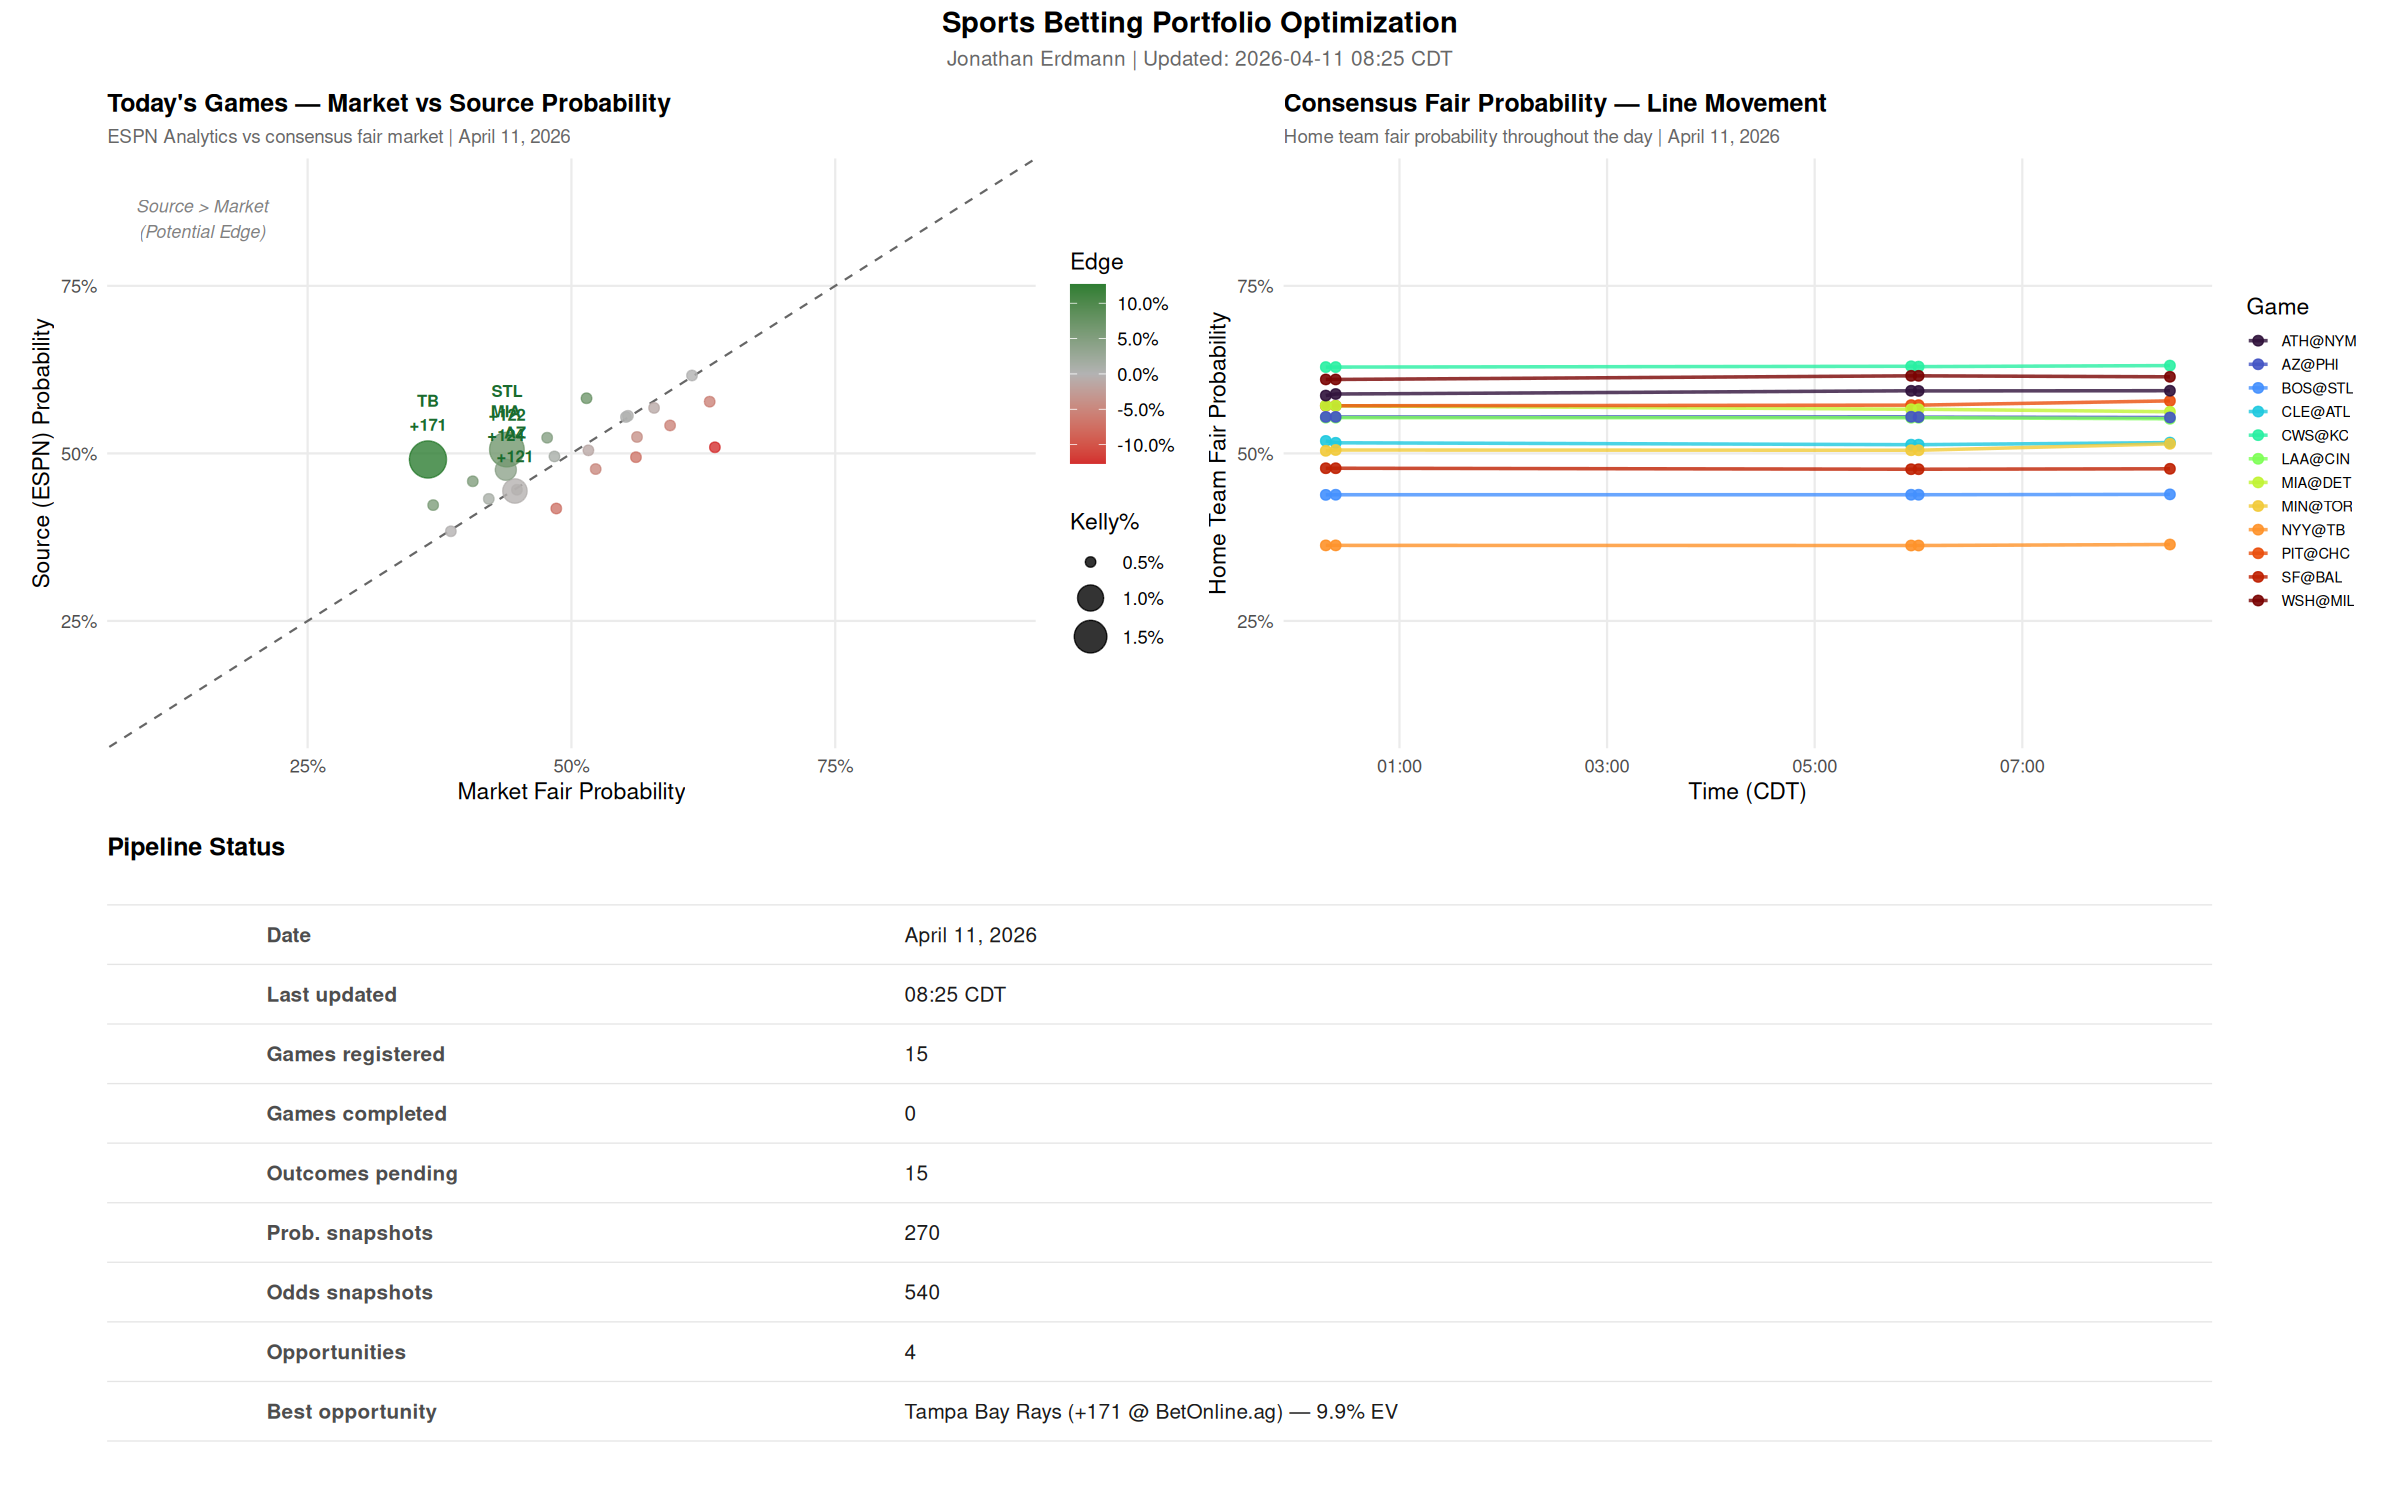
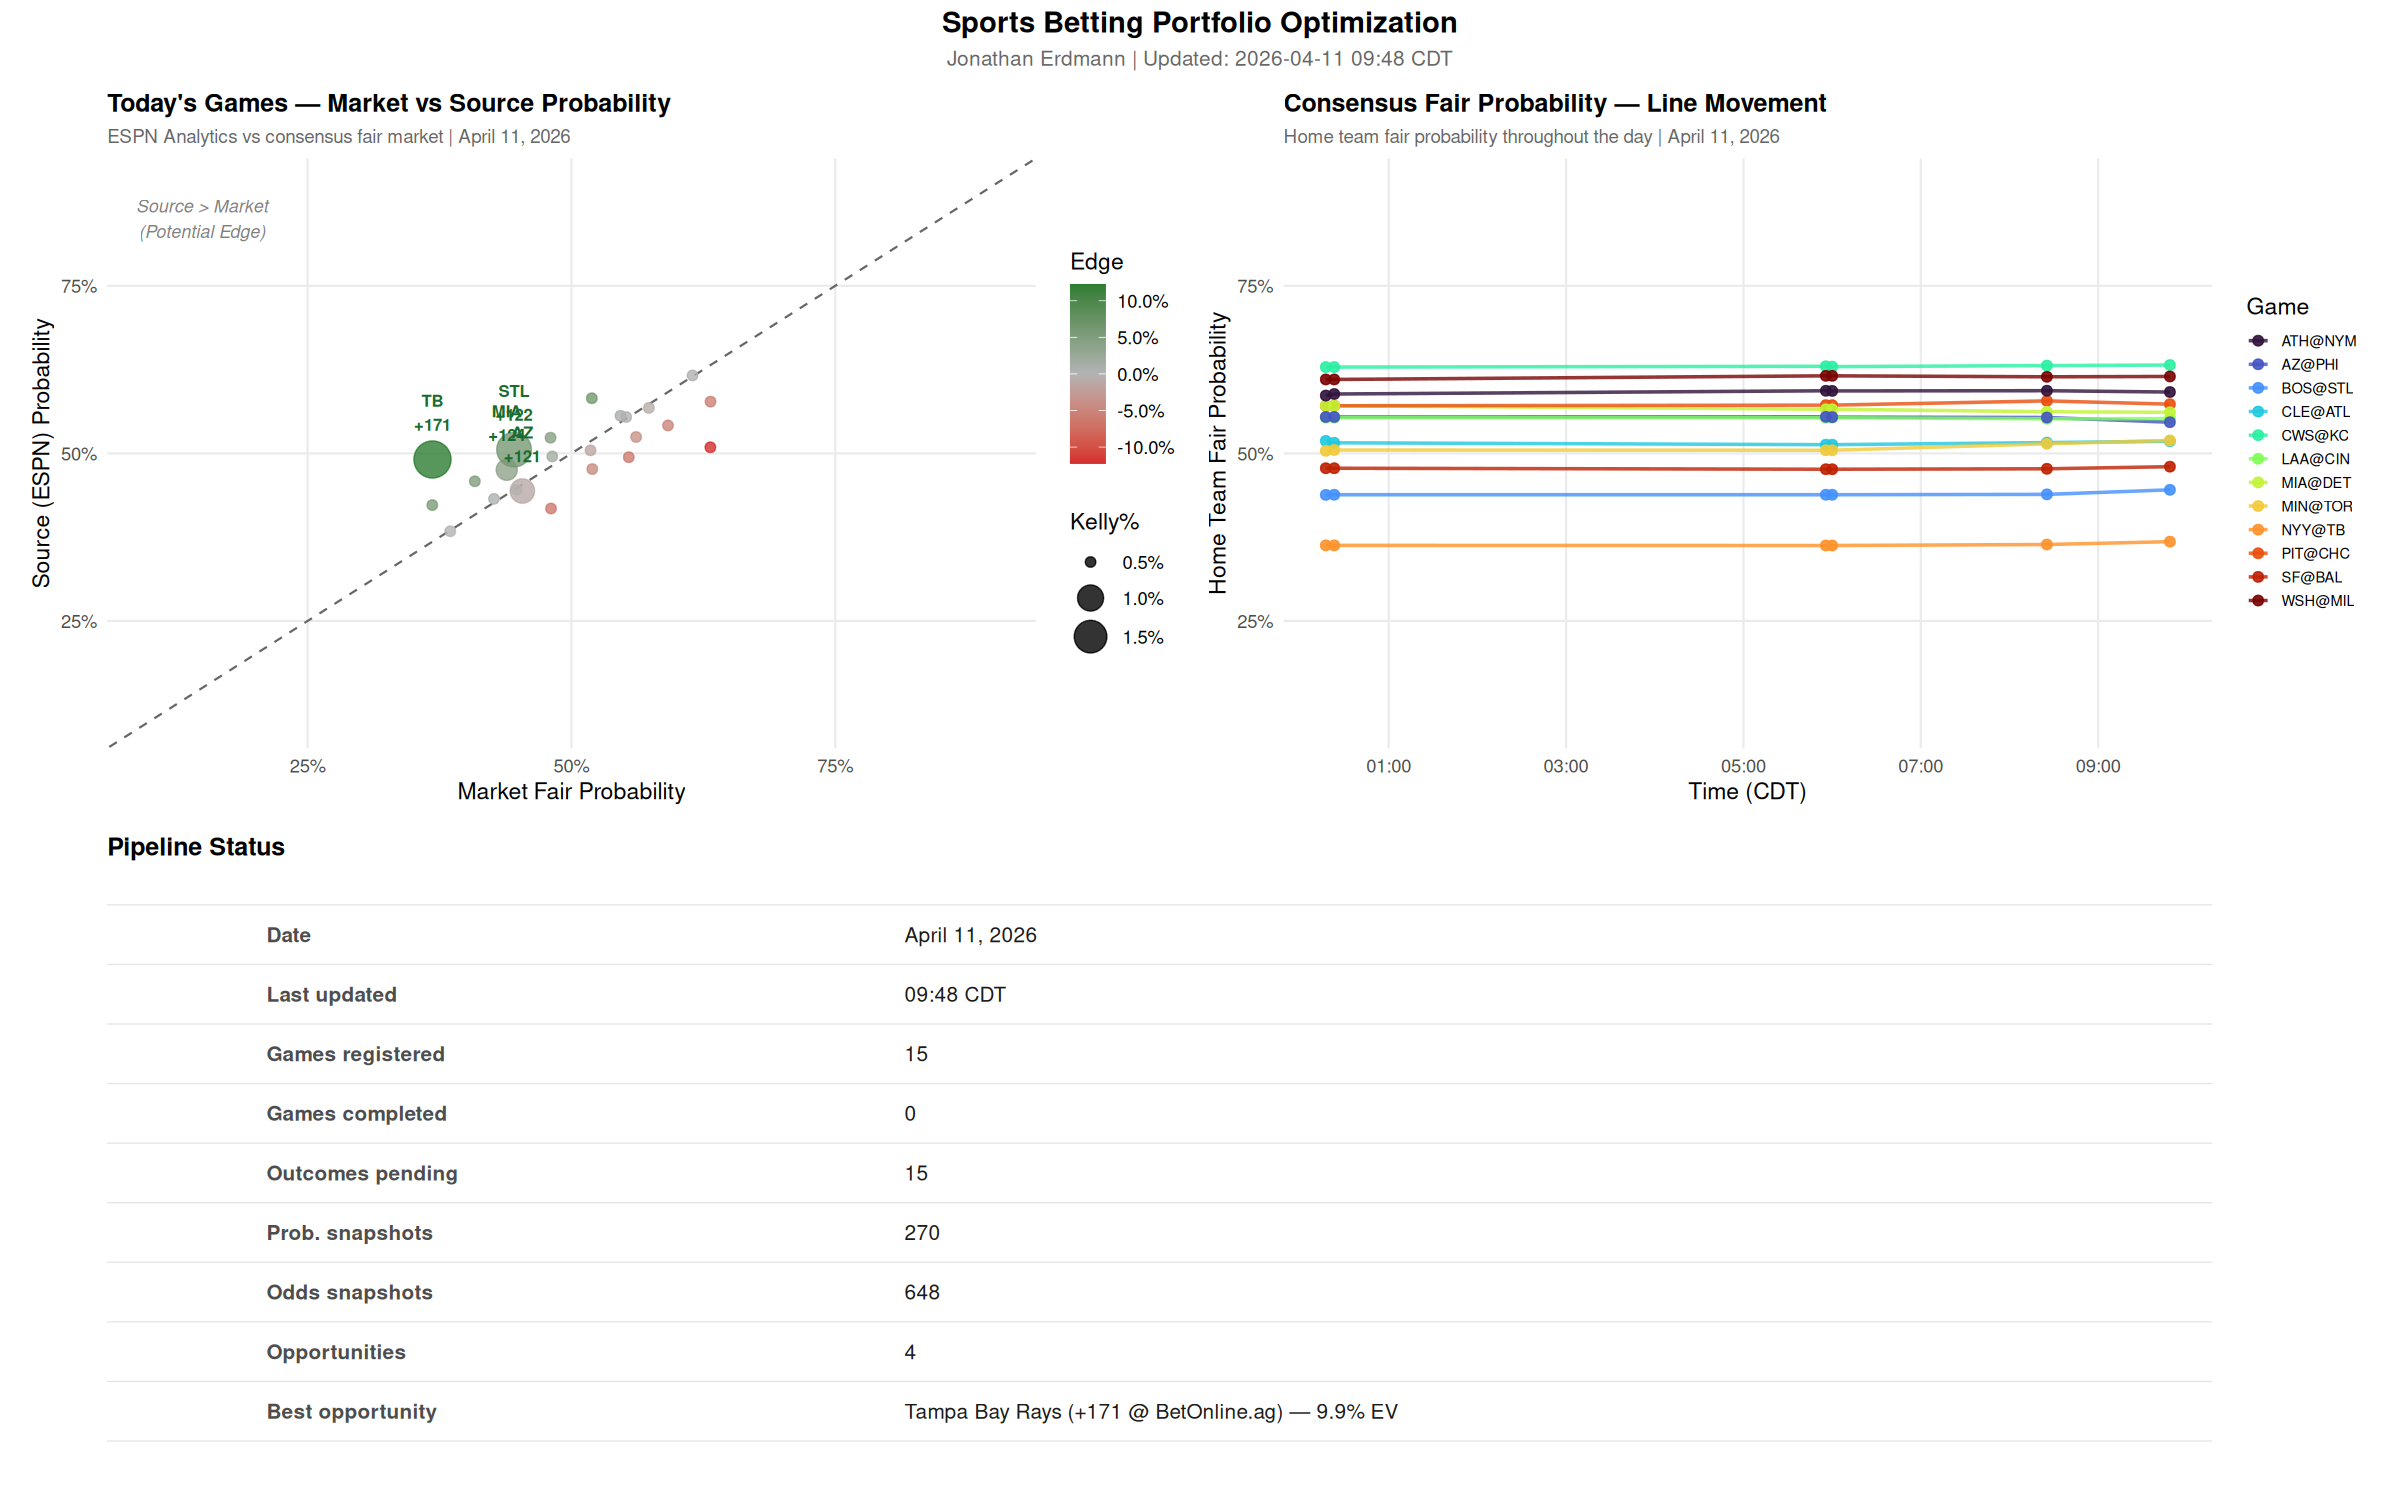
Update dashboard: 2026-04-11 09:48

diff --git a/projects/portfolio-optimization/dashboard.md b/projects/portfolio-optimization/dashboard.md
@@ -6,7 +6,7 @@ permalink: /projects/portfolio-optimization/dashboard/
 
 ## Daily Pipeline Dashboard
 
-**Last updated:** April 11, 2026 08:25 CDT
+**Last updated:** April 11, 2026 09:48 CDT
 
 ---
 
